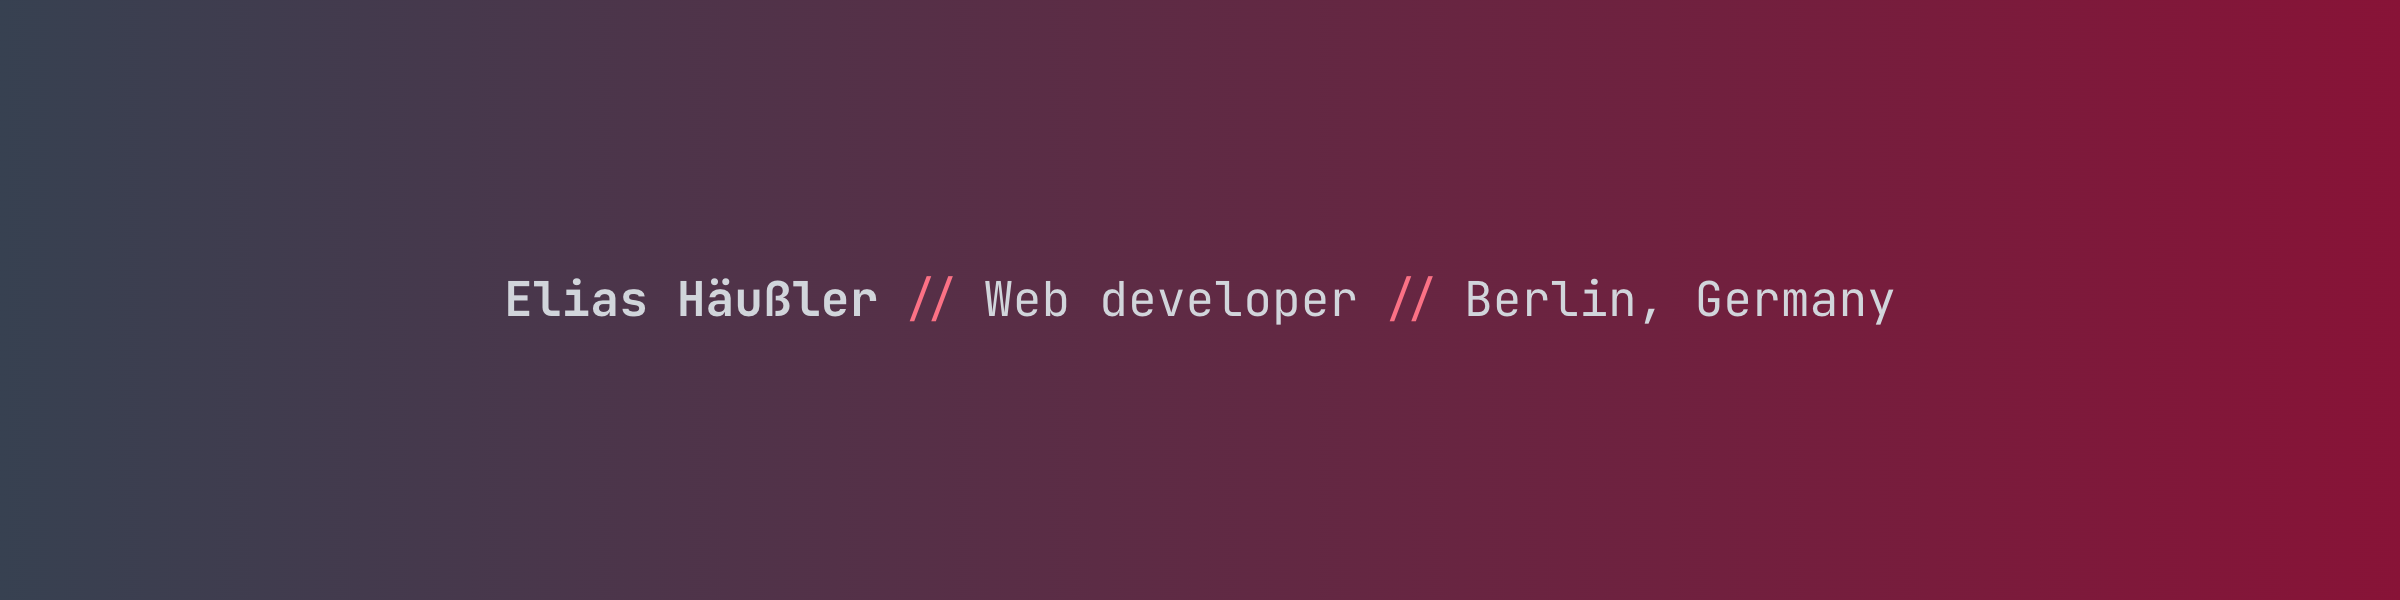
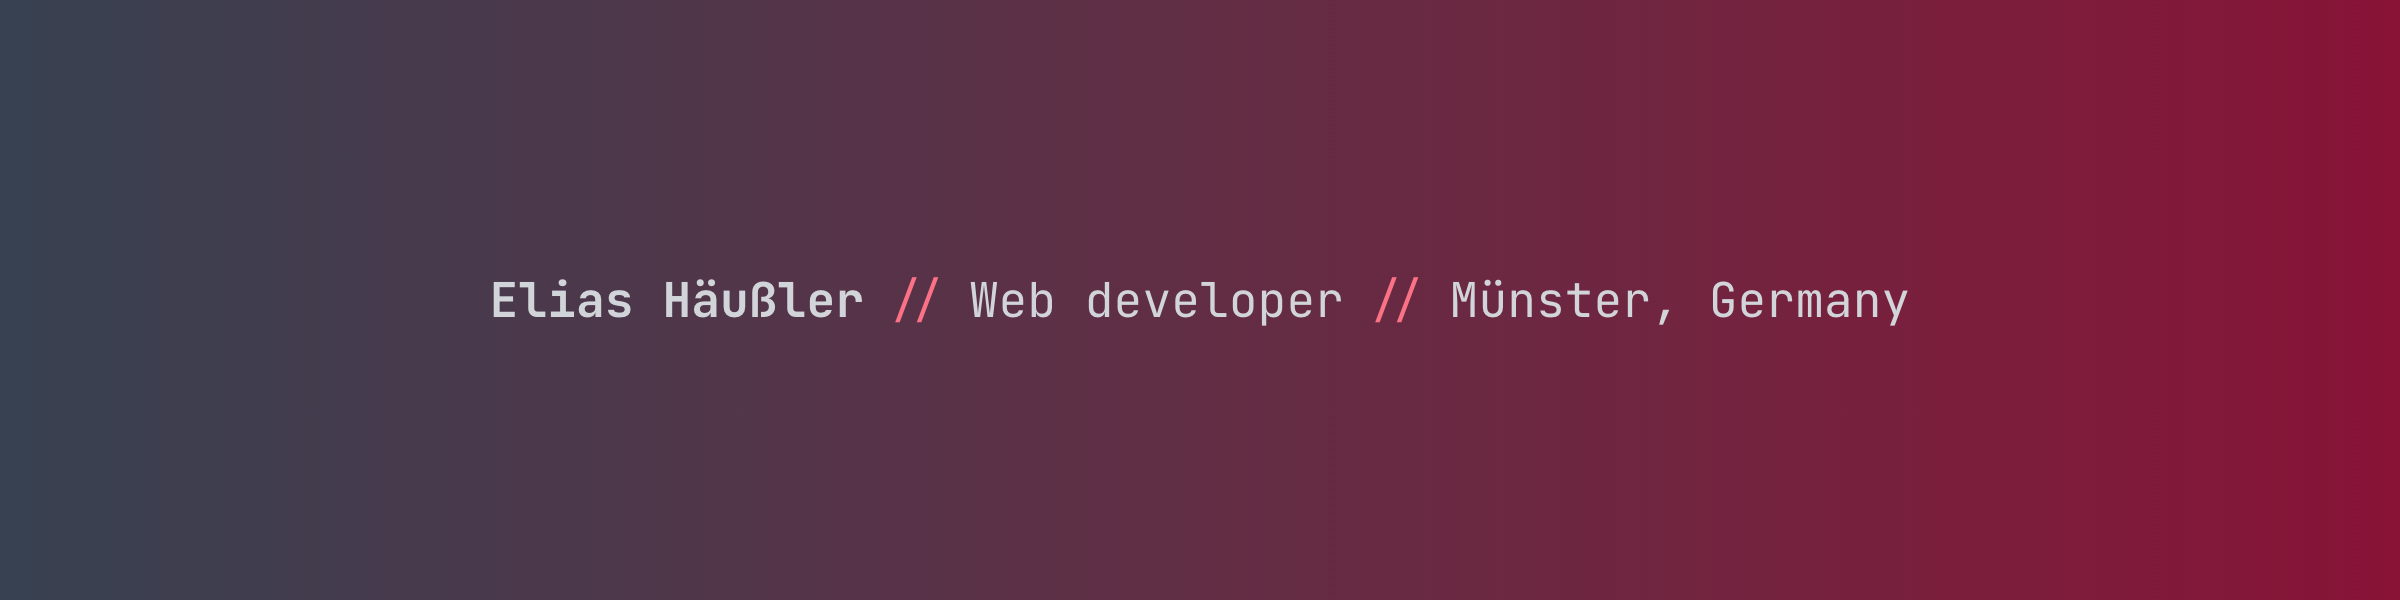
Berlin -> Münster

Changed region(s): [[0.1875, 0.45, 0.8125, 0.54]]

diff --git a/README.md b/README.md
@@ -1,6 +1,6 @@
-[![Elias Haeussler, web developer from Berlin (Germany)](img/header-main.png)][WEB]
+[![Elias Haeussler, web developer from Münster (Germany)](img/header-main.png)][WEB]
 
-Hi 👋, I'm [Elias Häußler][WEB], web developer from Berlin
+Hi 👋, I'm [Elias Häußler][WEB], web developer from Münster (Germany)
 with a focus on PHP development, especially for the [TYPO3 CMS][TYPO3].
 I love open source, which is why you can find most of my current projects on my profile.
 In case you like my work and find it worthy of support, I am always happy about a
